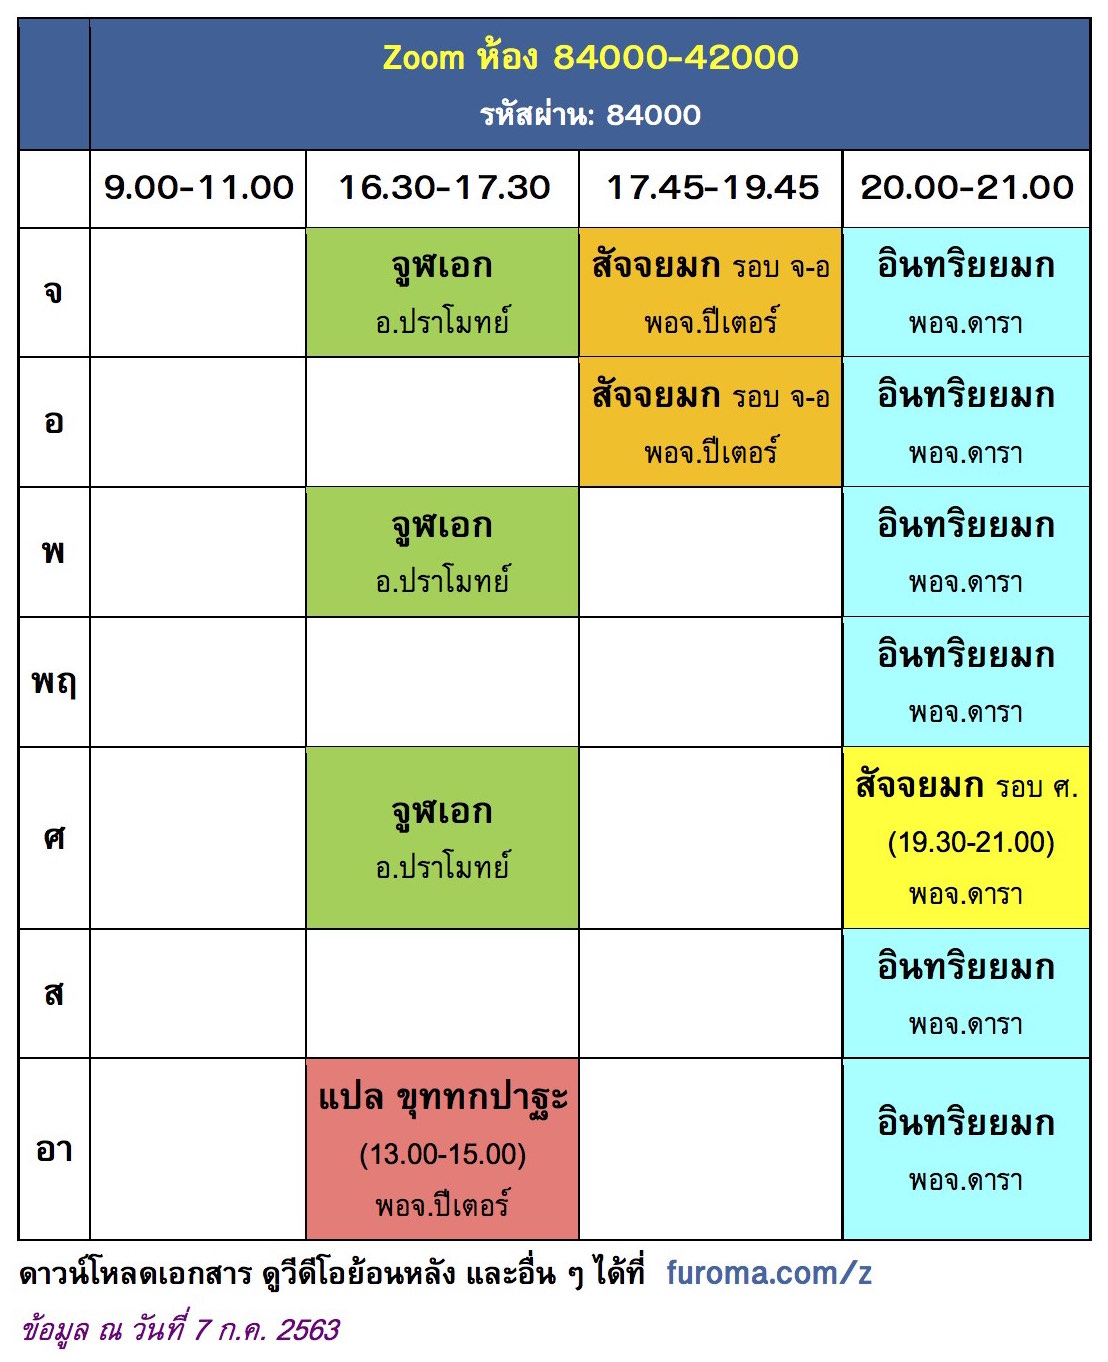
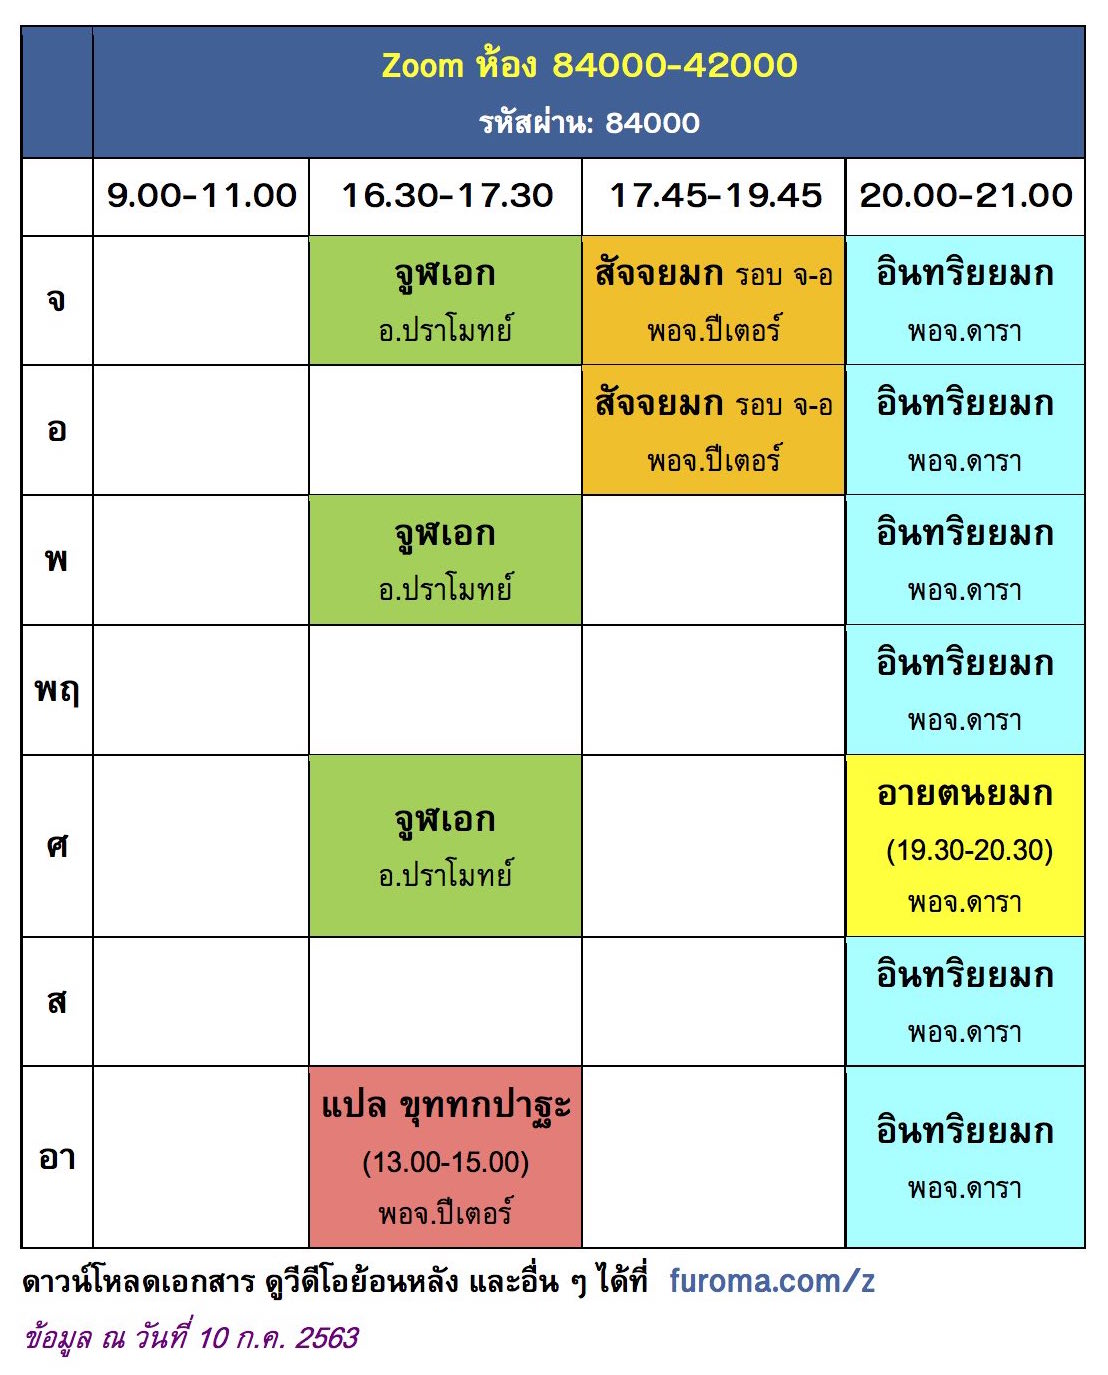
2020-07-11

Changed region(s): [[0.0, 0.0, 1.0, 0.9868], [0.3375, 0.5859, 0.4603, 0.6476], [0.2762, 0.5242, 0.3069, 0.7093]]

diff --git a/z/index.html b/z/index.html
@@ -61,8 +61,8 @@
 <B>ปัจจยาการวิภังค์</B>: เลื่อนคลาสวันที่ 15 เม.ย. เป็นวันที่ 14 เม.ย.</SPAN><!---->
 
 <TABLE cellpadding=0 cellspacing=0 align=center><TR valign=top><TD>
-<A href=42000.jpg?07-05><IMG border=0 src="42000.jpg?07-05" width=500px height=600px /></A>
-<A href=84000.jpg?06-21><IMG border=0 src="84000.jpg?06-21" width=500px height=600px /></A></TABLE>
+<A href=42000.jpg?07-10><IMG border=0 src="42000.jpg?07-10" width=500px height=600px /></A>
+<A href=84000.jpg?07-10><IMG border=0 src="84000.jpg?07-10" width=500px height=600px /></A></TABLE>
 (คลิกที่รูป เพื่อดูตารางสอนที่ใหญ่ขึ้น)<BR/>
 
 <BR/><SPAN style="text-align:center; color:magenta; font-size:22px; font-weight:bold;">สื่อการเรียน</SPAN>
